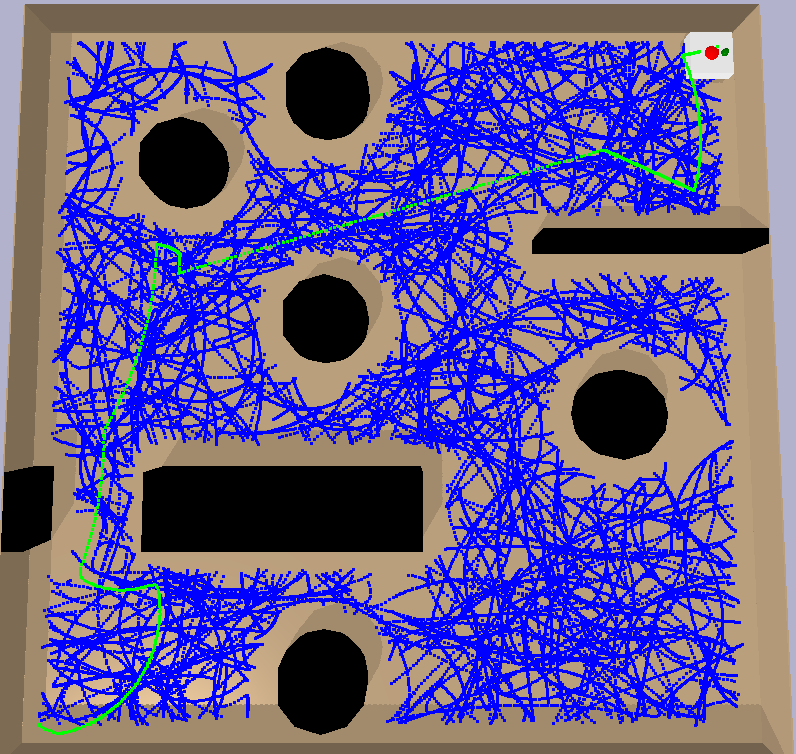
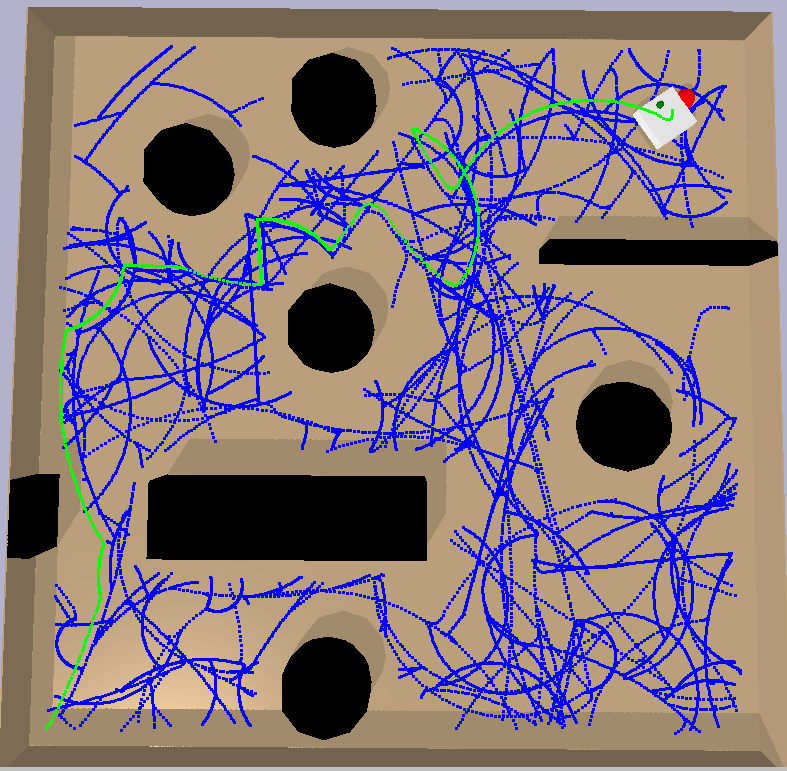
modified distance

diff --git a/demo.py b/demo.py
@@ -19,7 +19,8 @@ state_limits = {'x': (-4.75, 4.75), 'y': (-4.75, 4.75), 'theta': (-np.pi, np.pi)
 
 
 def distance(config1, config2):
-    weight = np.array([0.35,0.35,0.15,0.05,0.05,0.05])
+    weight = np.array([0.4,0.4,0.05,0.15,0.15,0.15])
+    weight = weight/np.linalg.norm(weight)
     ##config is a tuple
     array1 = np.array(config1)
     array2 = np.array(config2)
@@ -66,25 +67,27 @@ def dynamic_model(config, input, dt):
 
 def get_new_config(current_config, rand_config,input_sample_num,collision_fn, dt):
     input_list = []
+    # input_list.append((0,0,0))##stay still
     input_list.append((1,0,0))##move forward
     input_list.append((-1,0,0))##move backward
     input_list.append((0,0,1))##turn left
     input_list.append((0,0,-1))##turn right
-    input_list.append((-1,-1,0))##move backward and right
     input_list.append((1,0,1))##move forward and turn left
     input_list.append((1,0,-1))##move forward and turn right
     input_list.append((-1,0,1))##move backward and turn left
     input_list.append((-1,0,-1))##move backward and turn right
-    ## 0 - 8 are the 9 basic motions, pretending the robot is a car
+    ## 0 - 8 enables the robot to move forward and backward and turn left and right
     input_list.append((0,1,0))##move left
     input_list.append((0,-1,0))##move right
     input_list.append((1,1,0))##move forward and left
     input_list.append((1,-1,0))##move forward and right
     input_list.append((-1,1,0))##move backward and left
+    input_list.append((-1,-1,0))##move backward and right
     input_list.append((0,1,1))##move left and turn left
     input_list.append((0,1,-1))##move left and turn right
     input_list.append((0,-1,1))##move right and turn left
     input_list.append((0,-1,-1))##move right and turn right
+    ## 9 - 18 enables the robot to move left and right and turn left and right
     input_list.append((1,1,1))##move forward and left and turn left
     input_list.append((1,1,-1))##move forward and left and turn right
     input_list.append((1,-1,1))##move forward and right and turn left
@@ -93,8 +96,7 @@ def get_new_config(current_config, rand_config,input_sample_num,collision_fn, dt
     input_list.append((-1,1,-1))##move backward and left and turn right
     input_list.append((-1,-1,1))##move backward and right and turn left
     input_list.append((-1,-1,-1))##move backward and right and turn right
-    # input_list*=100
-    ## 9 - 24 are the 16 basic motions, pretending the robot is a car
+    ## 19 - 26 enables the robot to move forward and backward and left and right
     dis = []
     new_config_list = []
     for i in range(input_sample_num):
@@ -121,7 +123,7 @@ def expand_node(node_list, closest_node, rand_config, collision_fn, input_sample
     new_node_list = node_list
     current_node = closest_node
     num = 0
-    while distance(current_node.config, rand_config) > 0.1 and num < 100:
+    while distance(current_node.config, rand_config) > 0.2 and num < 100:
         new_config = get_new_config(current_node.config, rand_config,input_sample_num,collision_fn, dt)
         if new_config == None:
             break
@@ -152,9 +154,9 @@ def rrt_connect(start_config, goal_config, collision_fn, input_sample_num):
                 rand_config = [random.uniform(state_limits[name][0], state_limits[name][1]) for name in state_names]
         closest_node = get_closest_node(rand_config, node_list)
         node_list = expand_node(node_list, closest_node, rand_config, collision_fn, input_sample_num, dt)
-        if distance(node_list[-1].config, goal_config) < 0.1 or ((node_list[-1].config[0]-goal_config[0])**2 < 0.03 and (node_list[-1].config[1]-goal_config[1])**2 < 0.03 and (node_list[-1].config[2]-goal_config[2])**2 < 0.05) :
-            goal_node.parent = node_list[-1]
-            node_list.append(goal_node)
+        if distance(node_list[-1].config, goal_config) < 0.2 or ((node_list[-1].config[0]-goal_config[0])**2 < 0.1 and (node_list[-1].config[1]-goal_config[1])**2 < 0.1) :
+            # goal_node.parent = node_list[-1]
+            # node_list.append(goal_node)
             find_path = True
             break
     if find_path:
@@ -163,7 +165,7 @@ def rrt_connect(start_config, goal_config, collision_fn, input_sample_num):
 
 def get_path(node_list, goal_node):
     path = []
-    current_node = goal_node
+    current_node = node_list[-1]
     while current_node.parent != None:
         path.append((current_node.config[0], current_node.config[1], current_node.config[2]))
         current_node = current_node.parent
@@ -221,10 +223,10 @@ def main(screenshot=False):
     print("This program is expected to run for 4~10 minutes (incluing drawing paths)...")
     print()
     start_config = (-4.5, 4.5, 0, 0, 0, 0)
-    goal_config = (4.5, -4.5, -np.pi/2, 0, 0, 0)
+    goal_config = (4.0, -4.0, -np.pi/2, 0, 0, 0)
     draw_sphere_marker((goal_config[0], goal_config[1], 0.1), 0.15, (1, 0, 0, 1))
     start_time = time.time()
-    explored, path = rrt_connect(start_config, goal_config, collision_fn, 9)
+    explored, path = rrt_connect(start_config, goal_config, collision_fn, 18)
     totalnodes, nodenum, quality_eu, quality_plus = path_quality(explored, path)
     print("Finish building the RRT!!")
     print("computation time:", time.time() - start_time)
